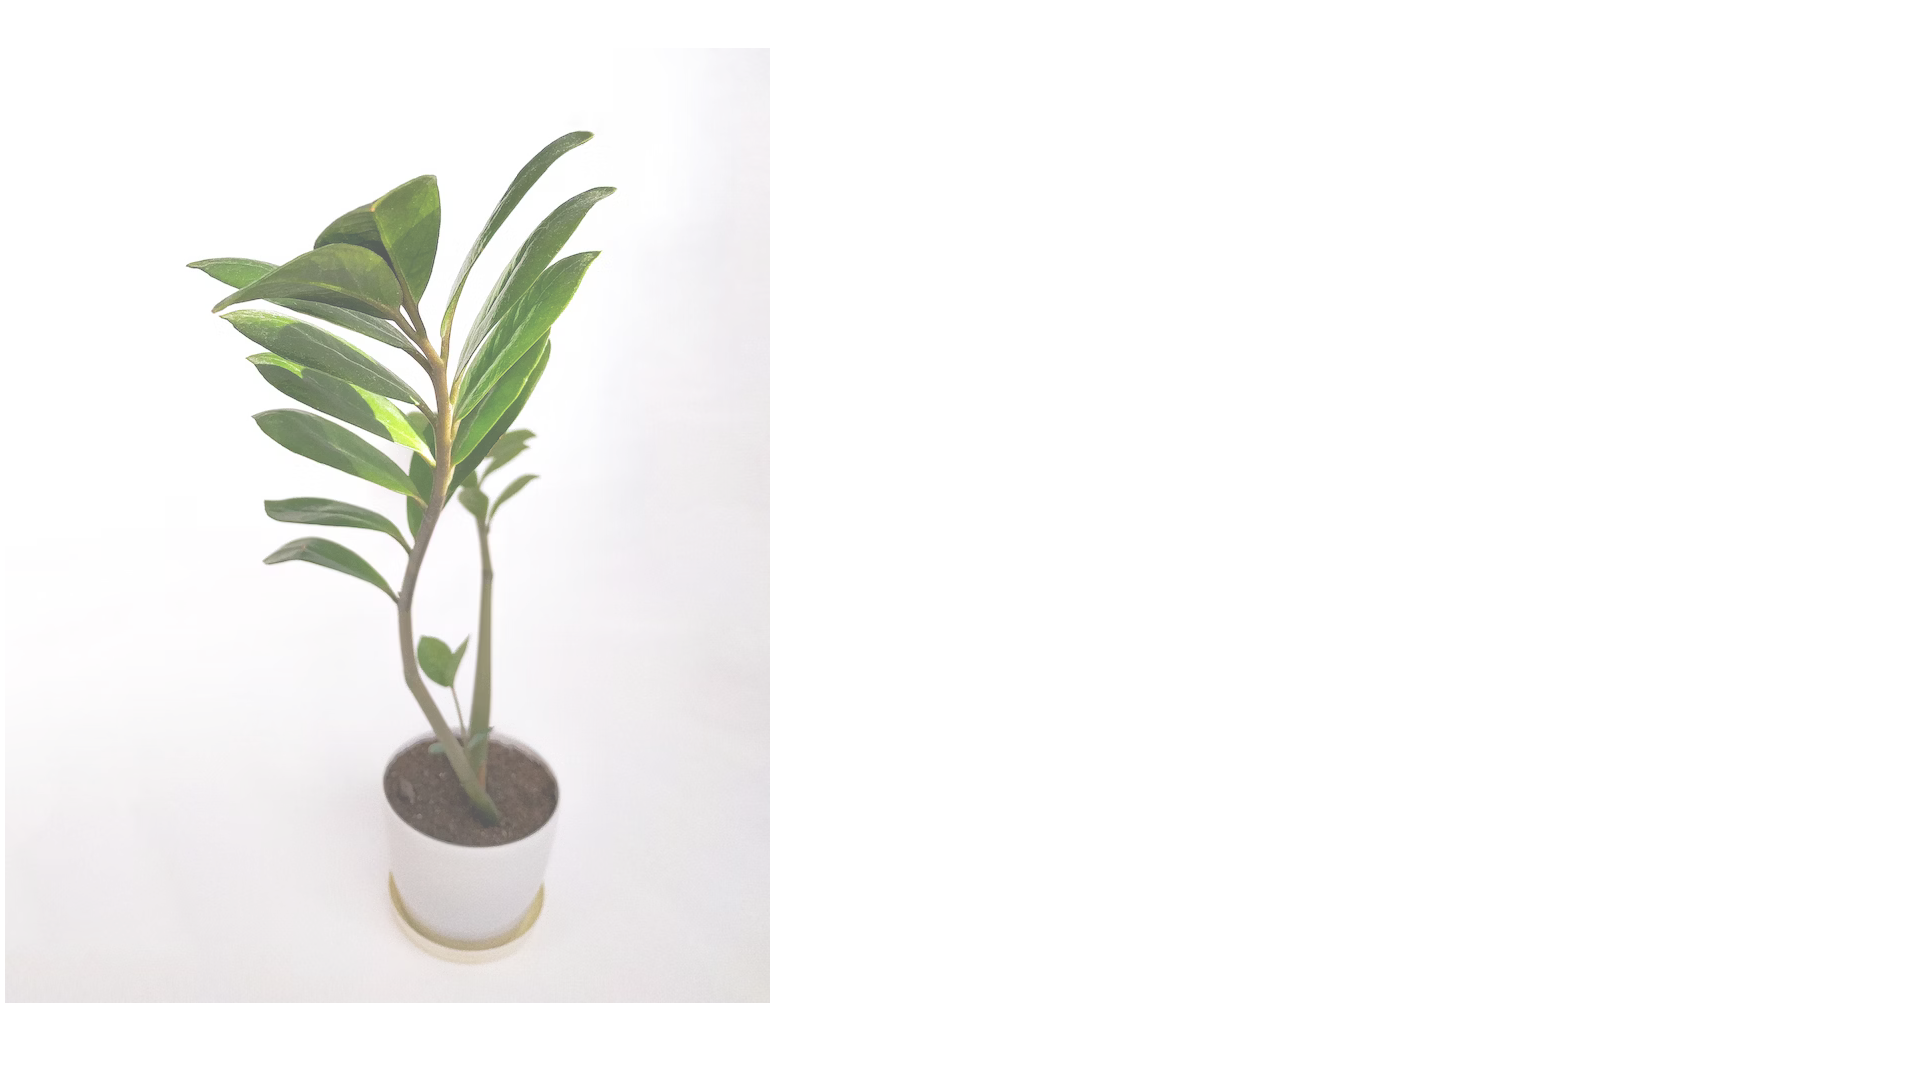
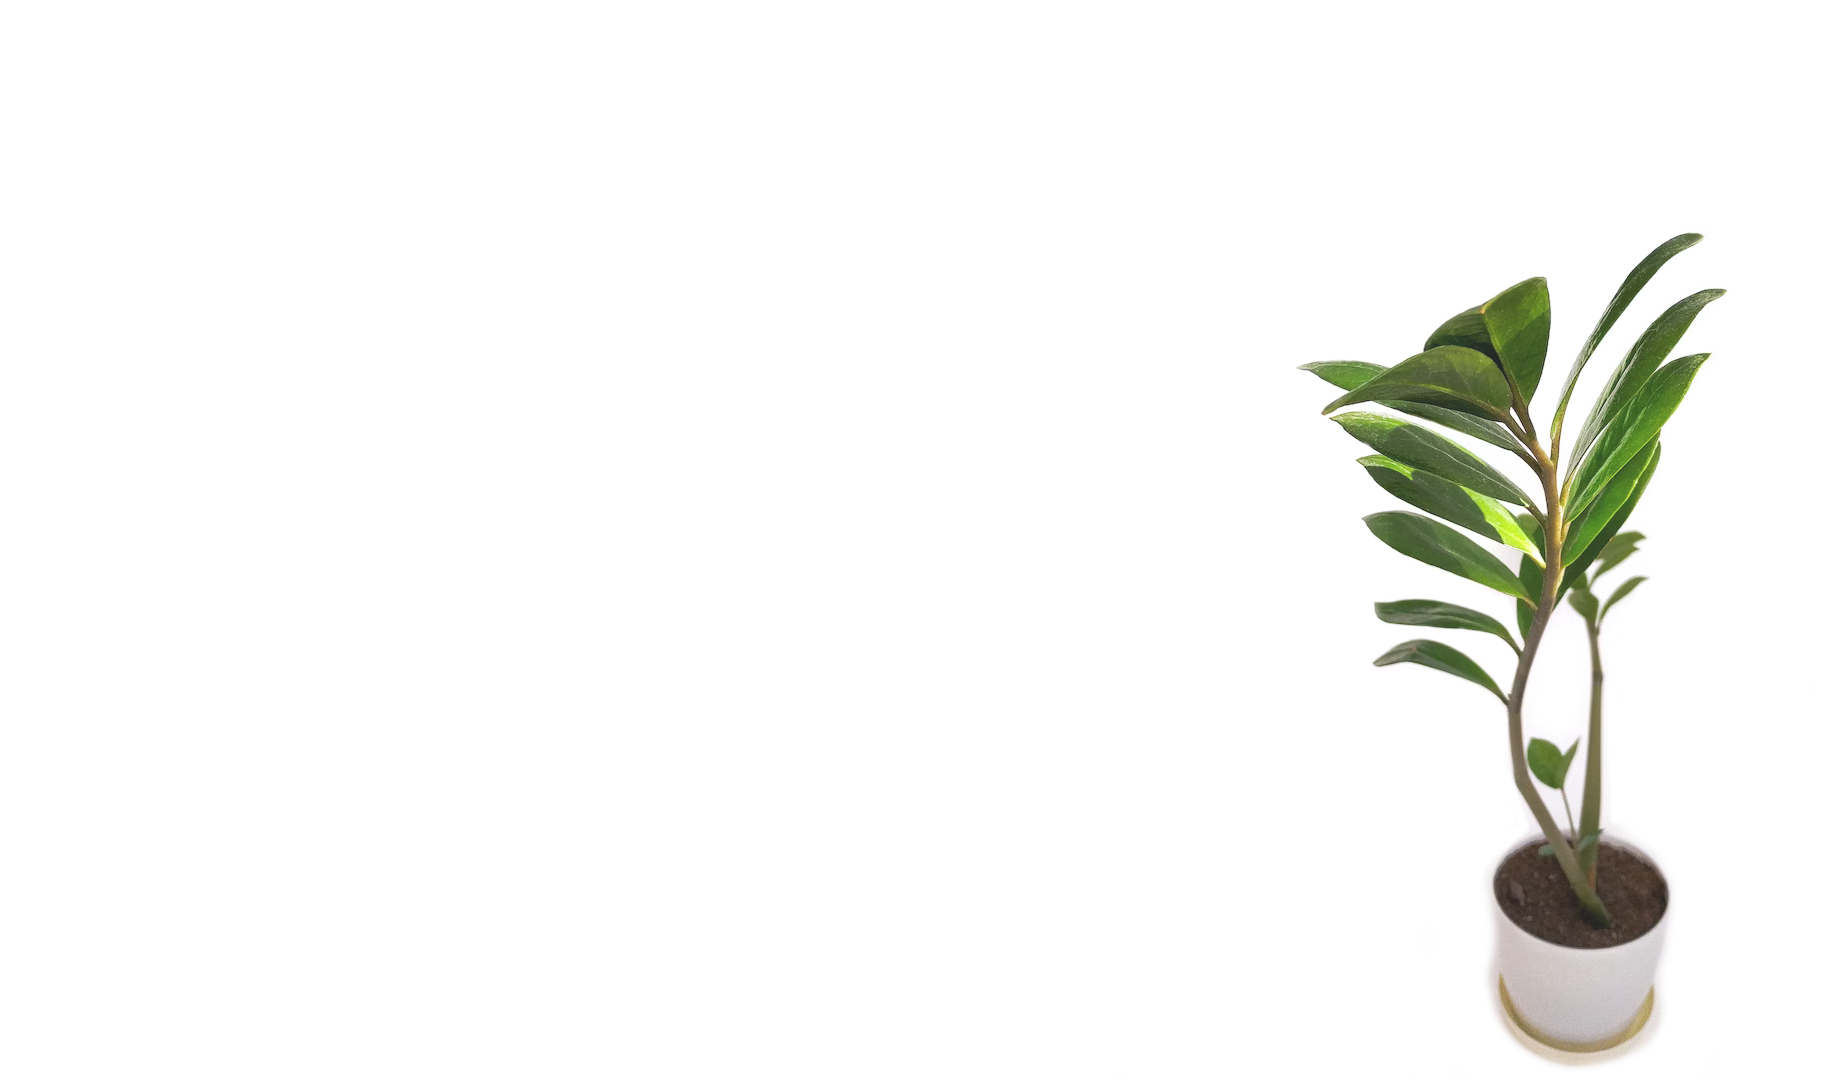
styling- carousel

Changed region(s): [[0.0, 0.1222, 0.4045, 0.9472], [0.7156, 0.2139, 0.9334, 1.0], [0.3734, 0.4278, 0.4045, 0.4889]]

diff --git a/rooted/index.html b/rooted/index.html
@@ -1,0 +1,83 @@
+<!DOCTYPE html>
+<html lang="en">
+
+<head>
+    <meta charset="UTF-8">
+    <meta http-equiv="X-UA-Compatible" content="IE=edge">
+    <meta name="viewport" content="width=device-width, initial-scale=1.0">
+    <link rel="preconnect" href="https://fonts.googleapis.com">
+    <link rel="preconnect" href="https://fonts.gstatic.com" crossorigin>
+    <link href="https://fonts.googleapis.com/css2?family=Josefin+Slab:wght@300&family=Tenor+Sans&display=swap"
+        rel="stylesheet">
+        <link rel="icon" type="image/x-icon" href="/images/favicon.ico">
+    <link rel="stylesheet" href="styles/headerstyles.css">
+    <link rel="stylesheet" href="styles/styles.css">
+    <link rel="stylesheet" href="styles/footerstyles.css">
+    <title>Soilmates | Home</title>
+</head>
+
+<body>
+    <nav class="nav-container">
+        <div class="logo-container">
+            <a class="logo-link" href="index.html">
+                <img class="logo-img" src="images/logo.png" alt="logo-image: plant in house and name">
+            </a>
+        </div>
+        <ul class="nav-link-container nav-item-container">
+            <li class="nav-item site-font"><a class="nav-link" href="">Home</a></li>
+            <li class="nav-item site-font"><a class="nav-link" href="">About</a></li>
+            <li class="nav-item site-font"><a class="nav-link" href="">Posts</a></li>
+            <li class="nav-item site-font"><a class="nav-link" href="">Contact</a></li>
+        </ul>
+    </nav>
+    <main class="content-container">
+        <div class="header-container">
+            <h1 class="page-header site-font">
+                Welcome to Soilmates
+            </h1>
+        </div>
+        <div class="carousel-container">
+            <div class="carousel-bg">
+                <div class="carousel-content-wrapper">
+                    <div class="arrow-container left-arrow-container">
+                        <img class="carousel-arrow left-arrow" src="images/left-arrow.png" alt="Left Arrow">
+                    </div>
+                    <div class="content-font carousel-content">
+                        <h2 class="content-font carousel-header">New posts</h2>
+                        <div class="main-latest-post">
+                            <div class="latest-index-text-container">
+                                <p class="latest-index-text">
+                                    Lorem, ipsum dolor sit amet
+                                    consectetur adipisicing elit. Ut quae..
+                                    <br>
+                                    <br>
+                                    <a class="seemore-link" href=""><em>Read More</em></a>
+                                </p>
+                            </div>
+                            <div class="latest-index-image-container">
+                                <img class="latest-index-img" src="/images/plantsheld.png" alt="">
+                            </div>
+                        </div>
+                        <div class="next-post-container">
+                            <div class="carousel-img-container">
+                                <img class="carousel-img" src="images/plant1.png" alt="">
+                            </div>
+                            <div class="carousel-img-container">
+                                <img class="carousel-img" src="images/dirt.png" alt="">
+                            </div>
+                            <div class="carousel-img-container">
+                                <img class="carousel-img" src="images/pots.png" alt="">
+                            </div>
+                        </div>
+                    </div>
+                    <div class="arrow-container right-arrow-container">
+                        <img class="carousel-arrow right-arrow" src="images/right-arrow.png" alt="Right Arrow">
+                    </div>
+                </div>
+
+            </div>
+        </div>
+    </main>
+</body>
+
+</html>

diff --git a/rooted/styles/styles.css b/rooted/styles/styles.css
@@ -1,0 +1,180 @@
+:root {
+	--background: #f9f7f5;
+}
+
+body {
+	width: 100vw;
+	overflow-x: hidden;
+	background: var(--background);
+}
+
+::marker {
+	display: none;
+	visibility: hidden;
+}
+
+::marker,
+li {
+	list-style-type: none;
+}
+
+.site-font {
+	font-family: "Tenor Sans", sans-serif;
+}
+
+.content-font {
+	font-family: "Josefin Slab", serif;
+}
+
+.logo-container {
+	width: 95px;
+}
+
+.logo-img {
+	width: 100%;
+}
+
+.nav-container {
+	display: flex;
+	flex-wrap: wrap;
+	align-items: center;
+}
+
+.nav-link-container {
+	display: flex;
+	flex-wrap: wrap;
+	justify-content: center;
+	align-items: center;
+}
+
+.nav-link {
+	list-style-type: none;
+	color: black;
+	padding: 0px 5px;
+}
+
+.content-container {
+	margin: 0px 50px;
+}
+
+/*INDEX*/
+
+.page-header {
+	text-align: center;
+	margin: 50px auto;
+}
+
+.carousel-container {
+	margin: auto;
+	width: 100%;
+	max-width: 755px;
+    min-width: 500px;
+	height: 500px;
+}
+
+.carousel-bg {
+	position: relative;
+	margin: auto;
+	width: 100%;
+	height: 100%;
+	border-radius: 3px;
+	background-color: white;
+	box-shadow: 5px 5px 7px 0px #0000007d;
+}
+
+.carousel-content-wrapper {
+	position: relative;
+	width: 100%;
+	height: 100%;
+	display: flex;
+	align-items: center;
+}
+
+.carousel-content {
+	box-sizing: border-box;
+	width: 80%;
+	display: flex;
+	flex-direction: column;
+	justify-content: space-between;
+	align-items: center;
+	margin: 15px auto;
+}
+
+.arrow-container {
+	position: absolute;
+	top: 50%;
+	transform: translateY(-50%);
+	width: 40px;
+	height: 40px;
+}
+
+.left-arrow-container {
+	left: 15px;
+}
+
+.right-arrow-container {
+	right: 15px;
+}
+
+.carousel-arrow {
+	width: 100%;
+	height: 100%;
+	cursor: pointer;
+}
+
+.carousel-header {
+	margin-top: 20px;
+}
+
+.main-latest-post {
+	display: flex;
+	flex-wrap: nowrap;
+	flex-direction: row;
+	width: 100%;
+	padding: 10px;
+	box-sizing: border-box;
+}
+
+.latest-index-text-container,
+.latest-index-image-container {
+	flex: 1;
+	padding: 5px;
+}
+
+.latest-index-img {
+	width: 100%;
+	max-height: 200px;
+	object-fit: cover;
+}
+
+.next-post-container {
+	display: flex;
+	flex-wrap: nowrap;
+	flex-direction: row;
+	justify-content: space-between;
+	padding: 10px;
+	box-sizing: border-box;
+	width: 100%;
+}
+
+.carousel-img-container {
+	width: calc(33% - 6px);
+	margin: 0 3px;
+}
+
+.carousel-img {
+	width: 100%;
+	height: 130px;
+	object-fit: cover;
+}
+
+@media (min-width: 768px) {
+	.arrow-container {
+		display: block;
+	}
+}
+
+@media screen and (max-width: 600px) {
+
+    
+}
